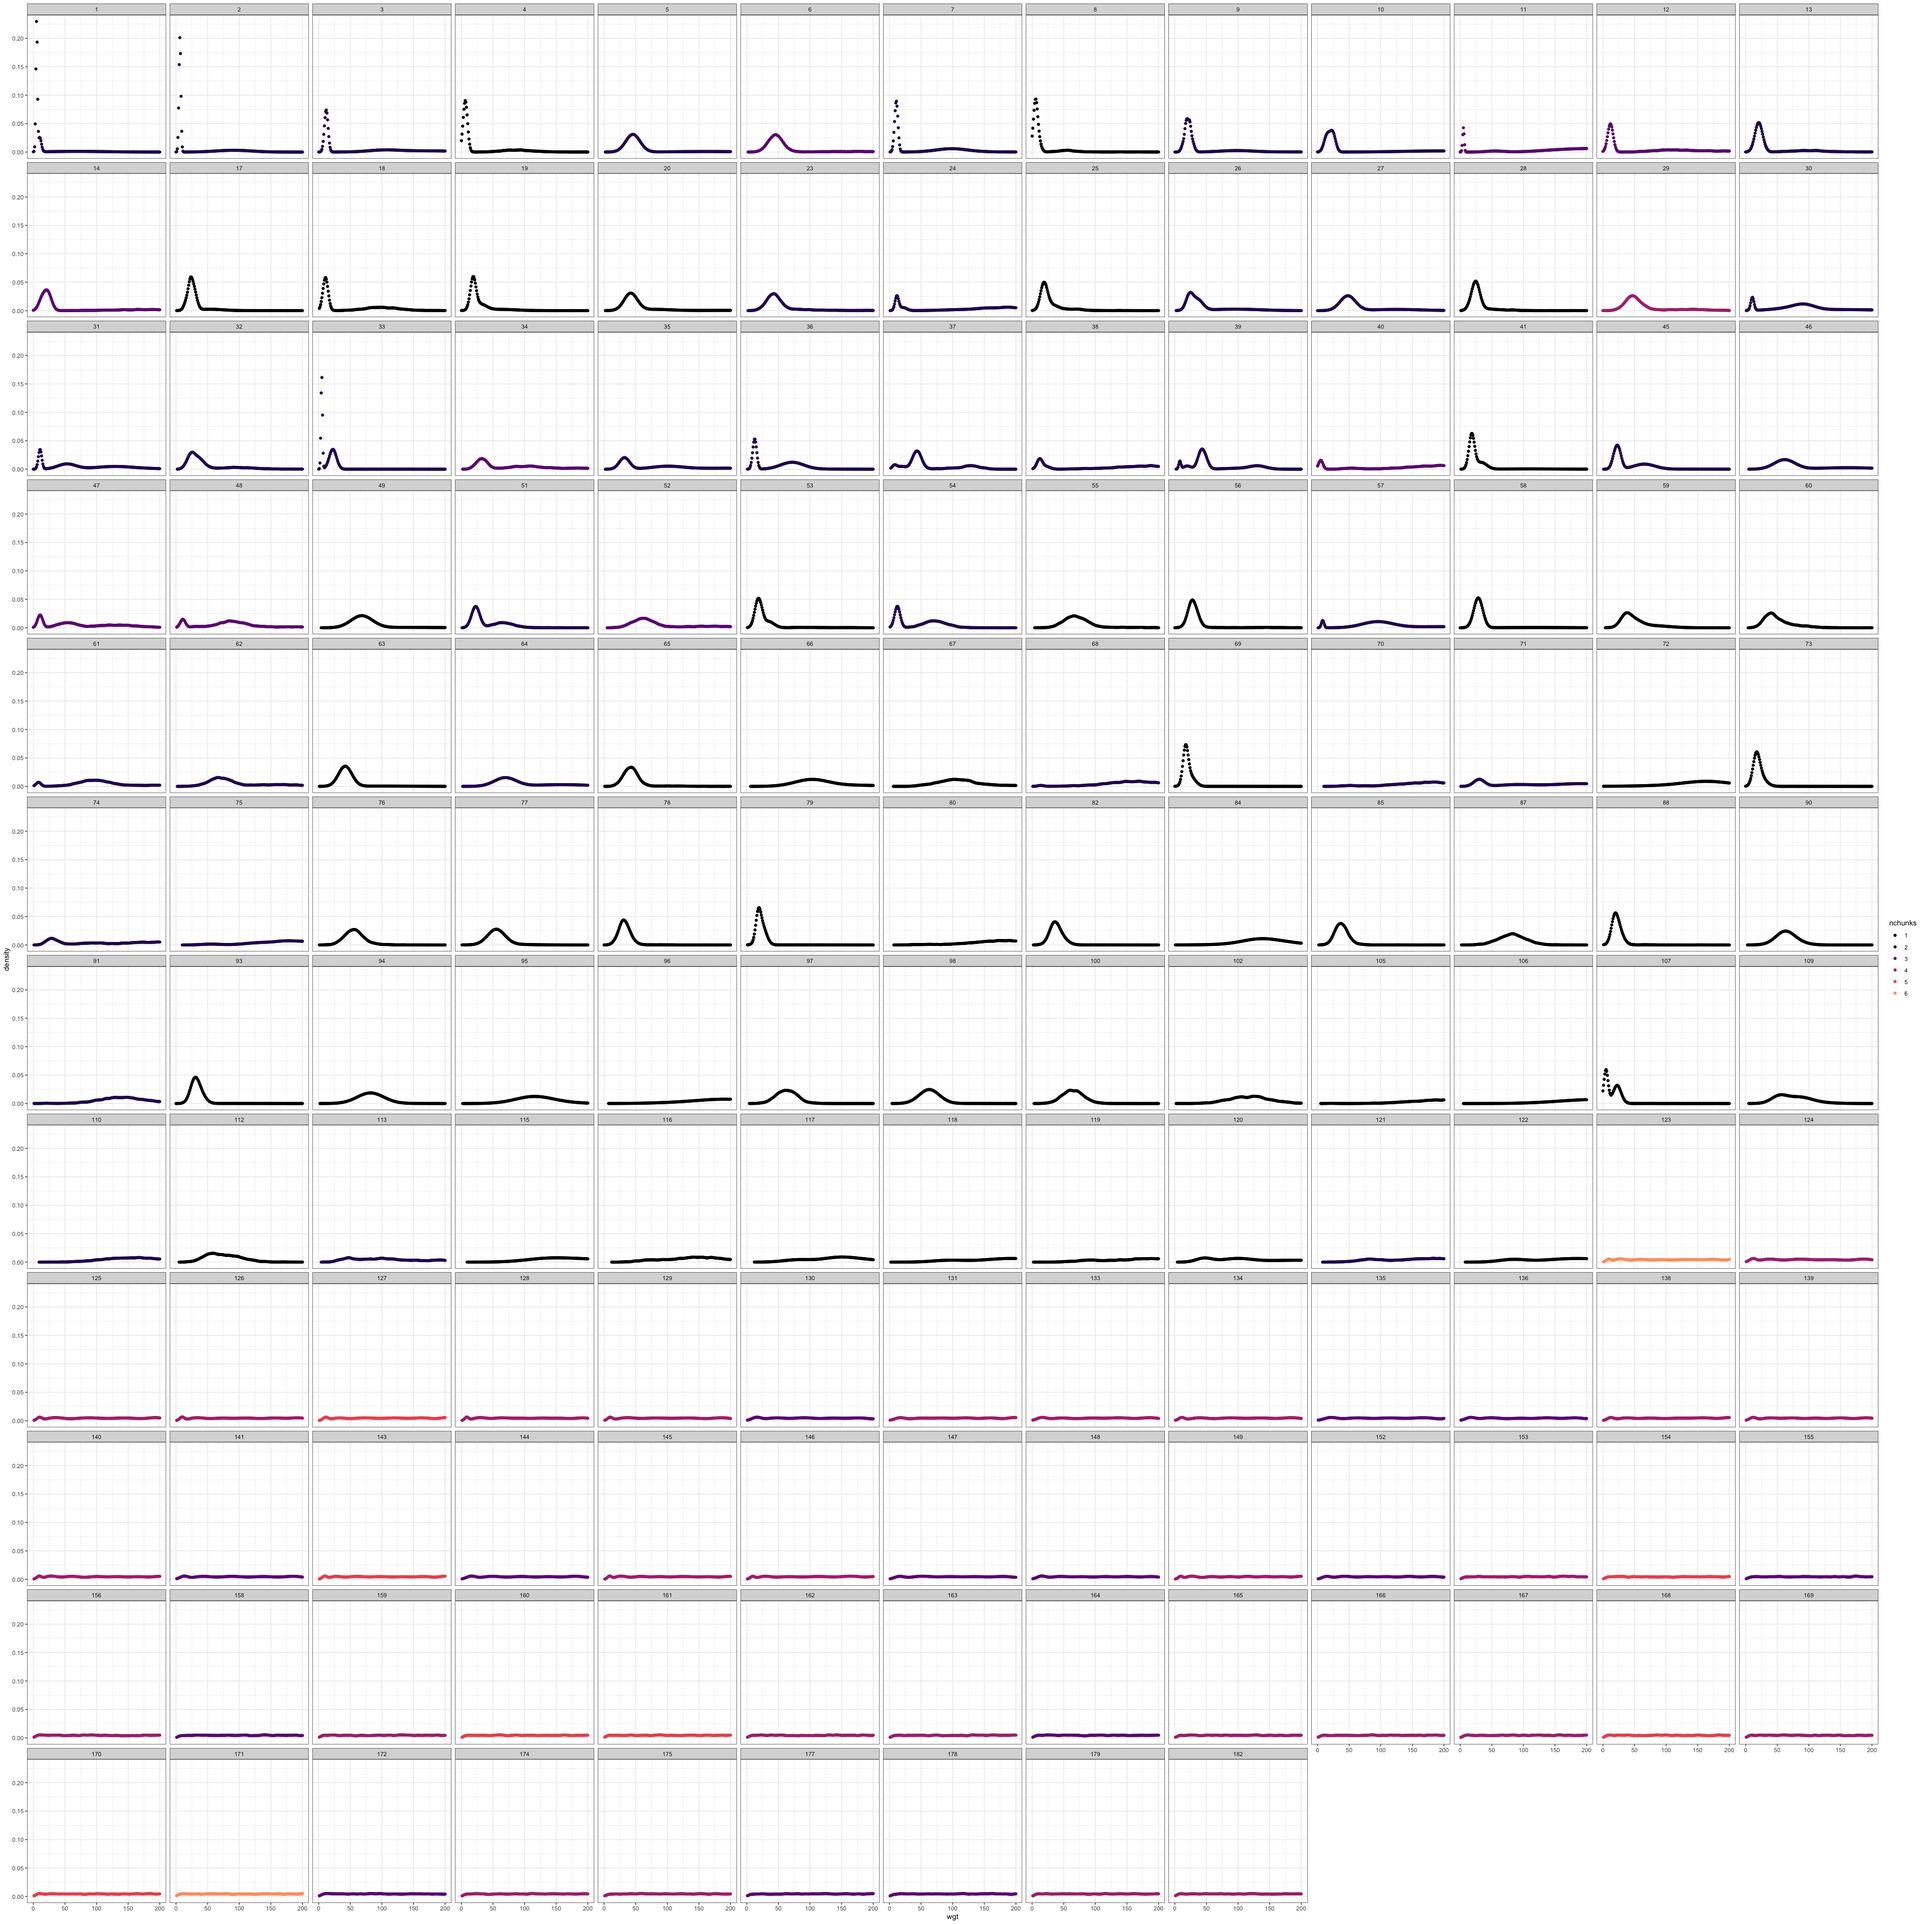
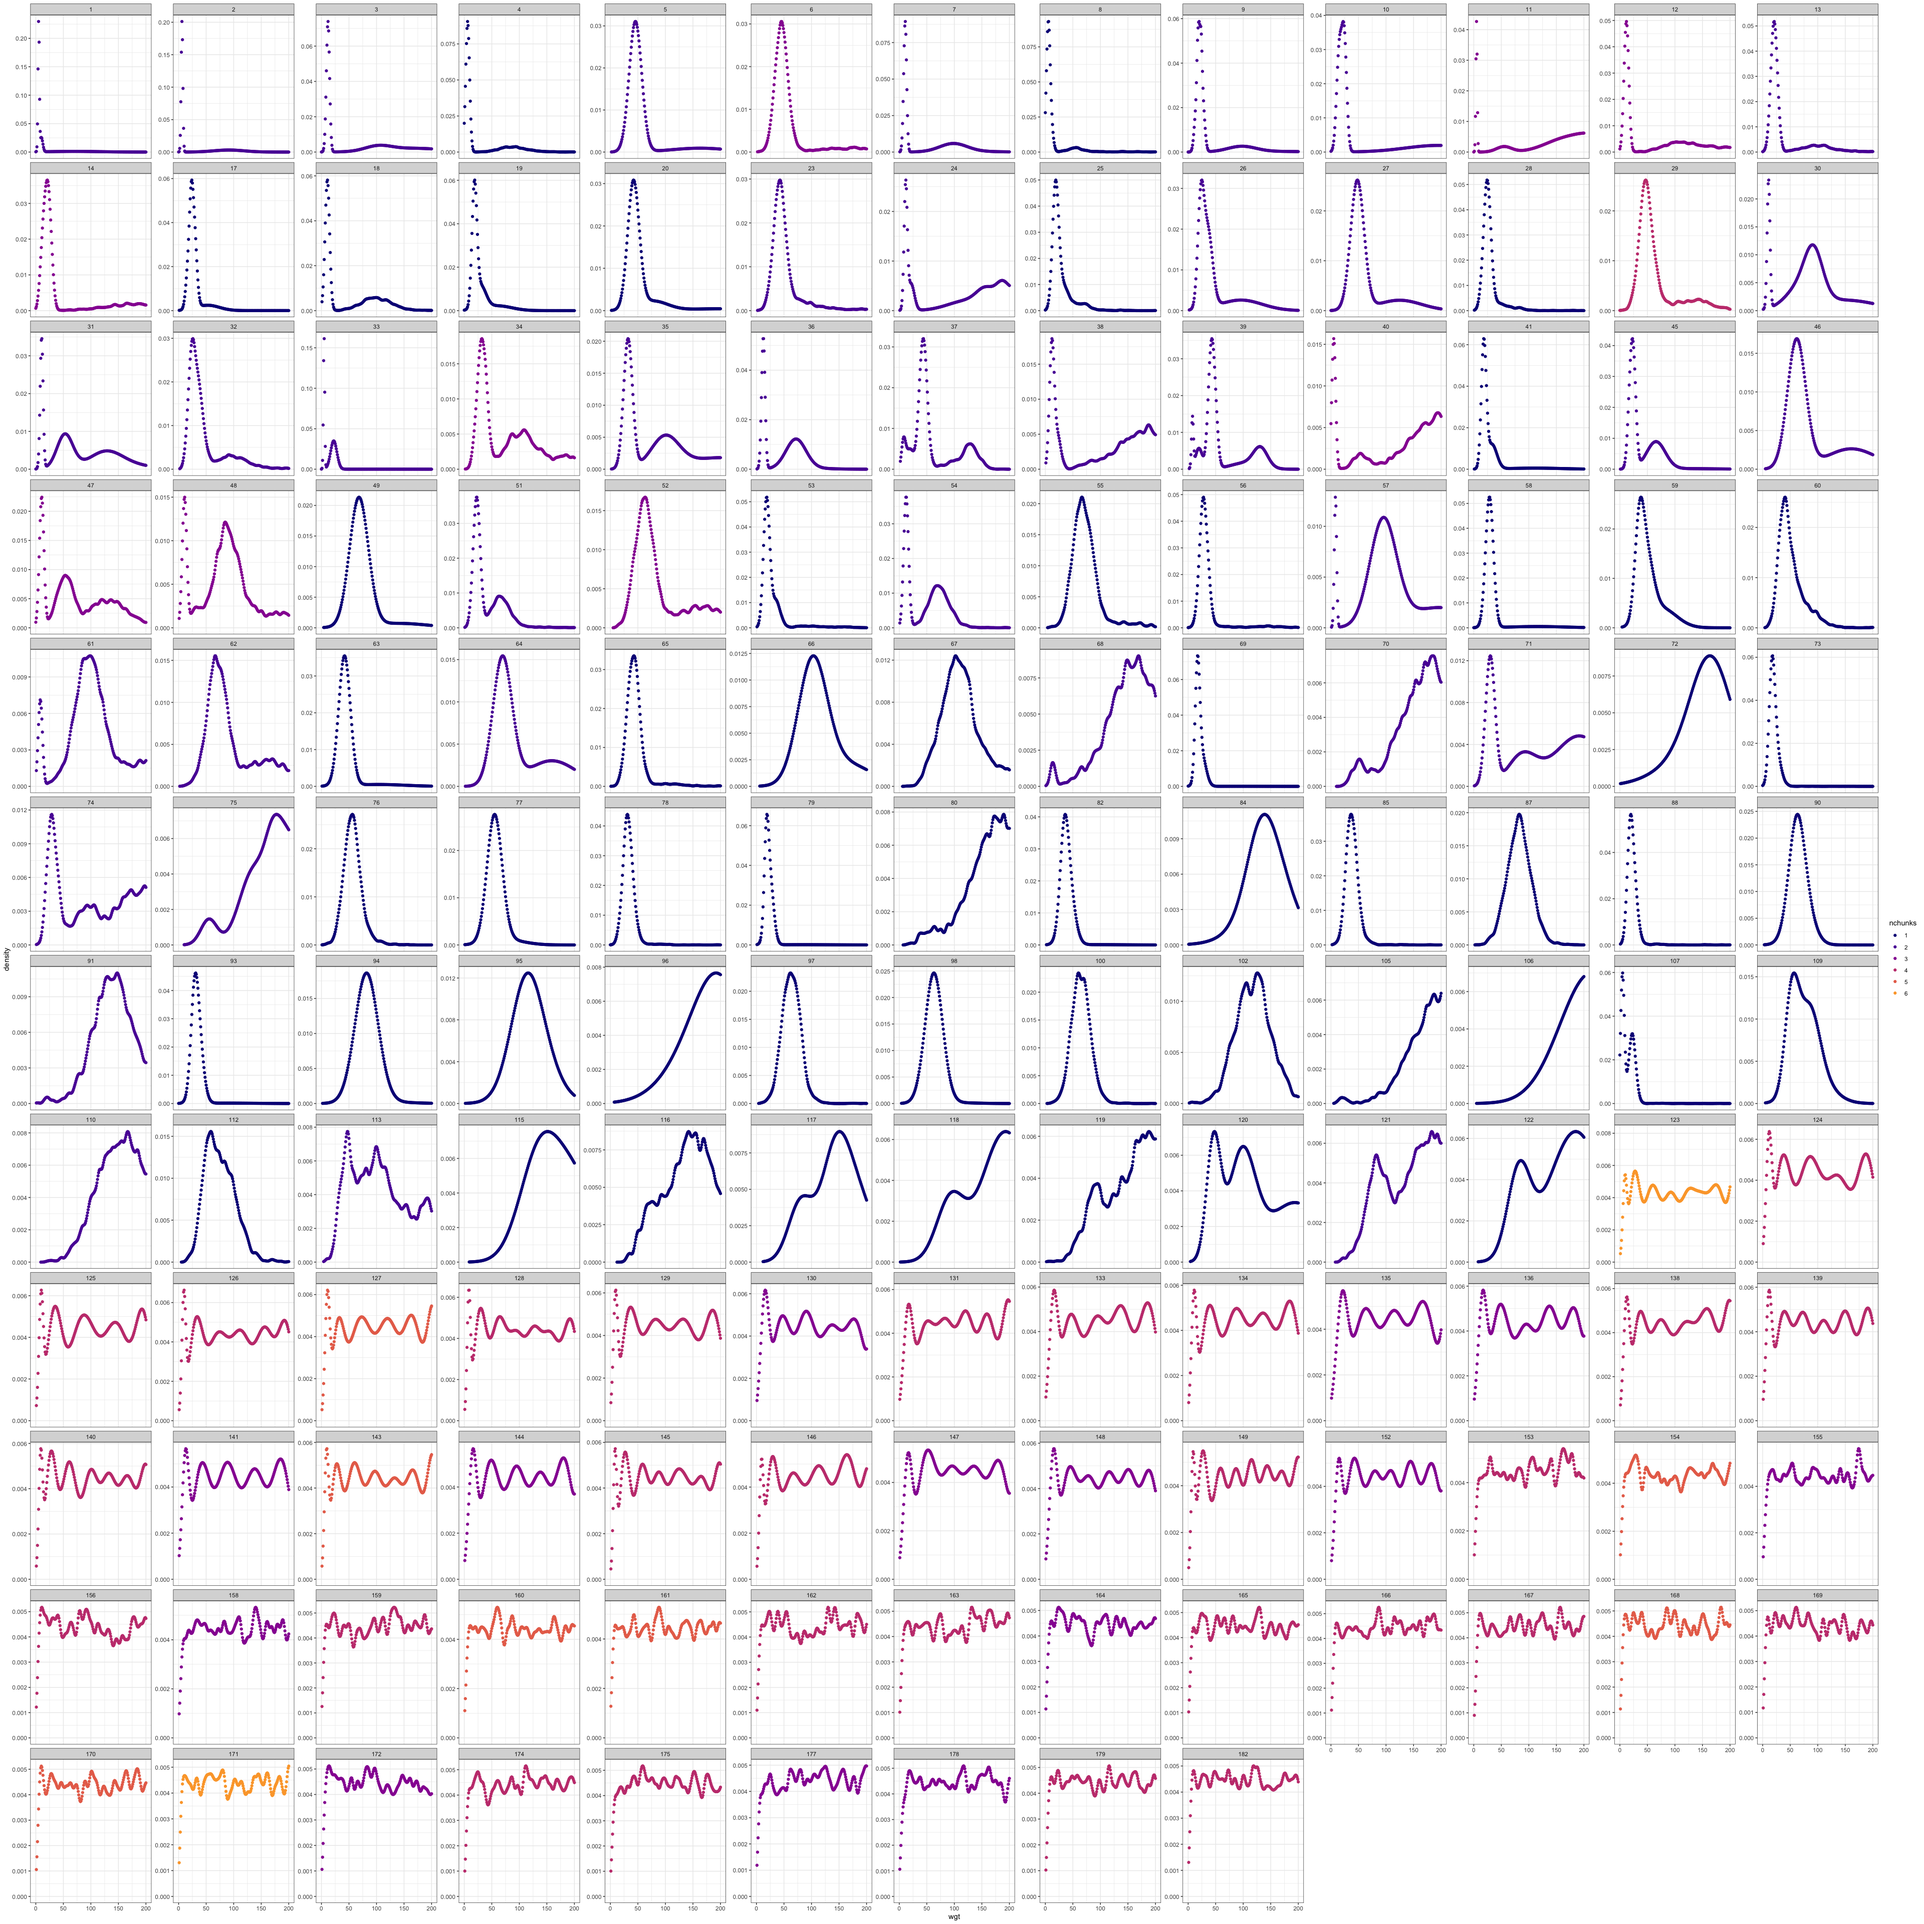
free y and change colors

diff --git a/analysis/turns_etc.md b/analysis/turns_etc.md
@@ -181,9 +181,9 @@ nchunks_plot <- ggplot(data = filter(all, chunk_rank %% 10 == 1), aes(x = wgt, y
 er_plot <- ggplot(data =filter(all, sim <= 25), aes(x = wgt, y = density, color = nchunks)) +
   geom_point() +
   theme_bw() +
-  scale_color_viridis_d(option = "magma", end = .8) +
+  scale_color_viridis_d(option = "plasma", end = .8) +
   xlim(0, 200) +
-  facet_wrap(vars(edges_rank))
+  facet_wrap(vars(edges_rank), scales = "free_y")
 er_plot
 ```
 
